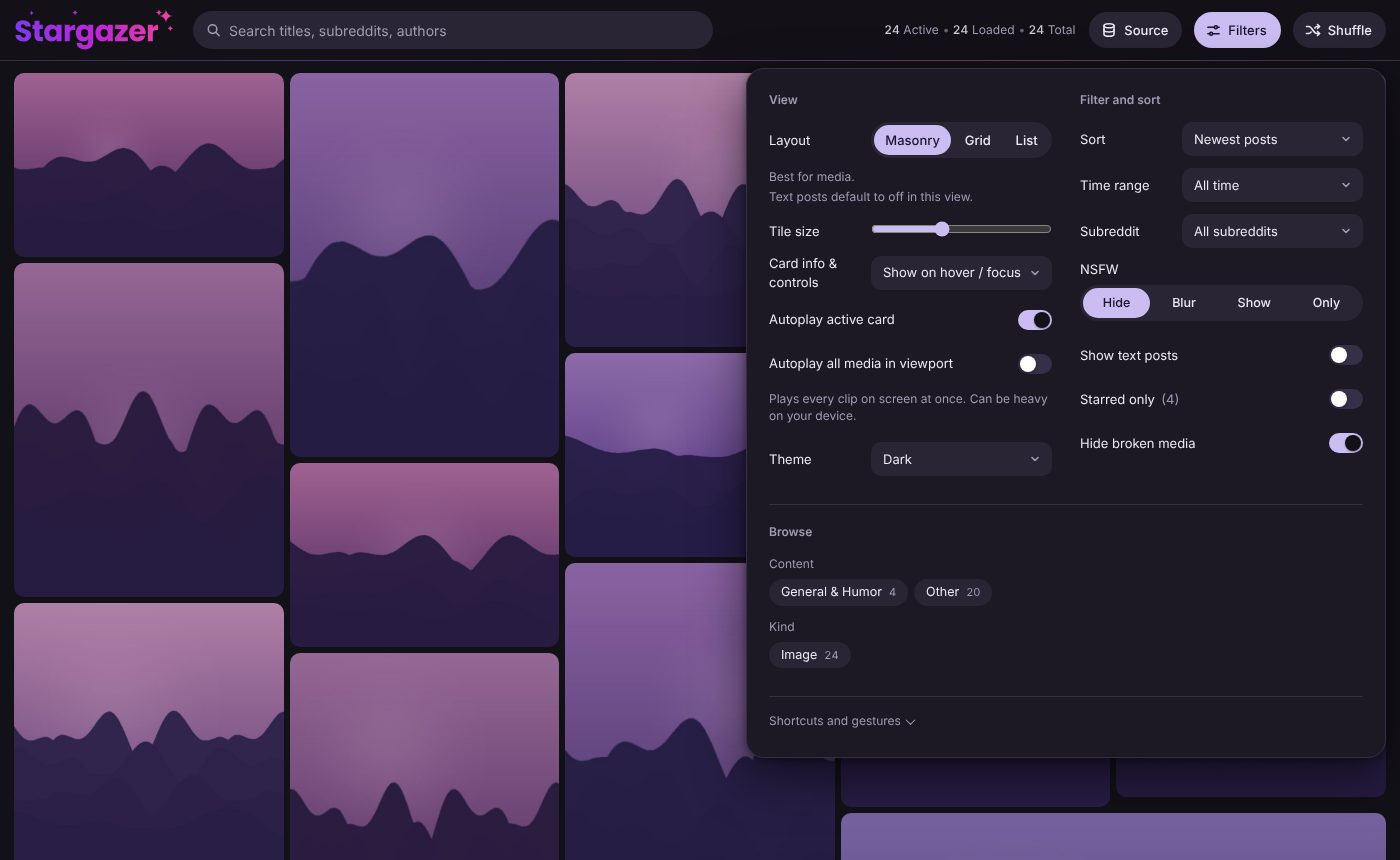
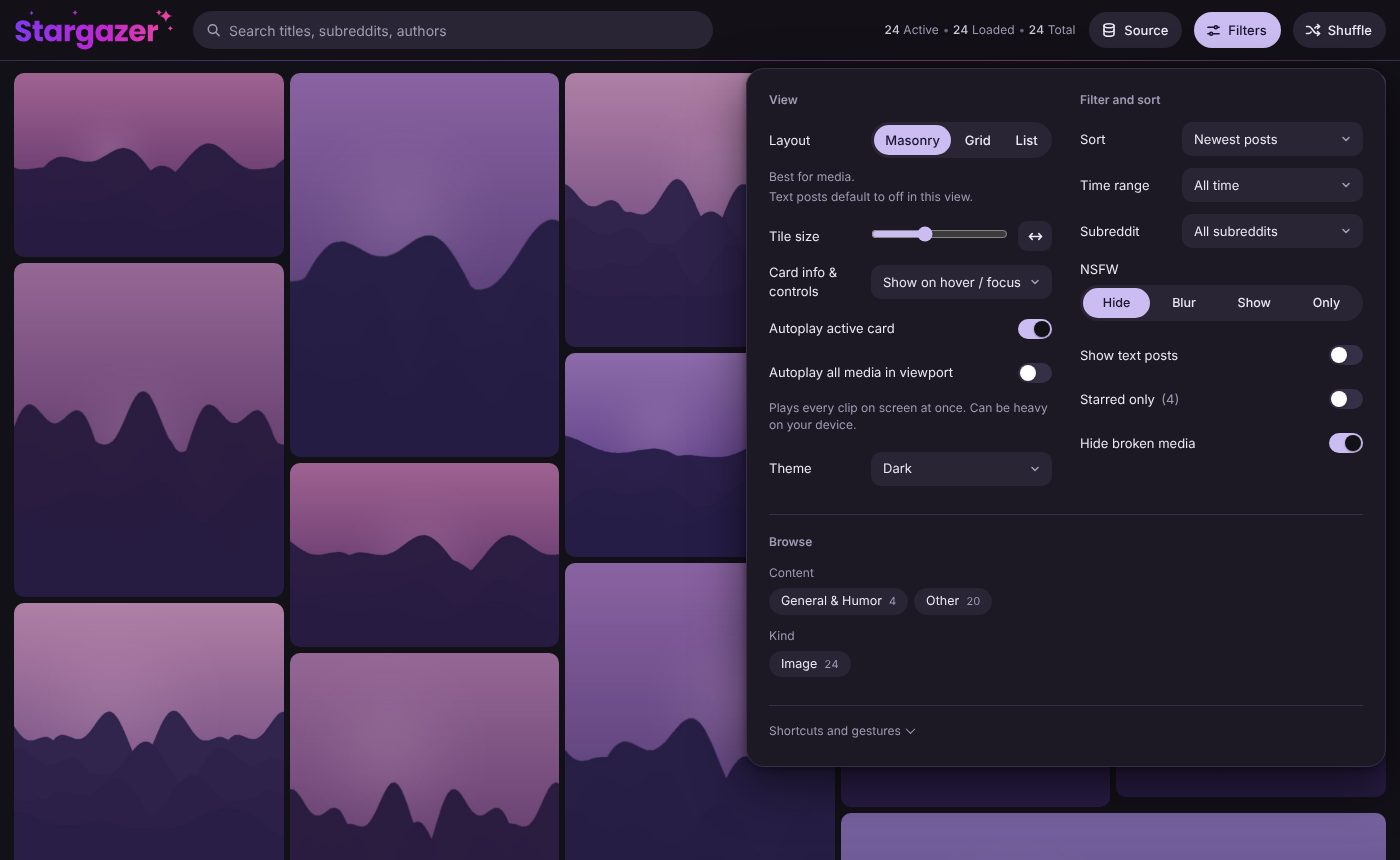
Full width button beside Tile size: one post at a time across the feed, capped to the window height
Claude-Session: https://claude.ai/code/session_01VoEyD2Nx8rj7mNJgvChFfq

diff --git a/site/index.html b/site/index.html
@@ -224,7 +224,16 @@ body.deck-collapsed #panel,body.src-collapsed #srcpanel{display:none}
 .field{appearance:none;-webkit-appearance:none;border:0;background:var(--surface-2);border-radius:10px;height:34px;padding:0 12px;min-width:0;max-width:100%;font-size:13px}
 select.field{background:var(--surface-2) var(--chev) no-repeat right 11px center;padding-right:30px;cursor:pointer;text-overflow:ellipsis}
 input[type=range]{width:100%;accent-color:var(--sel);margin:0}
-.sizewrap{position:relative;display:block;min-width:0}
+.sizewrap{position:relative;display:block;min-width:0;flex:1}
+.sizectl{display:flex;align-items:center;gap:10px;min-width:0}
+.fwbtn{flex:none;width:34px;height:30px;border:0;border-radius:9px;padding:0;display:grid;place-items:center;background:var(--surface-2);color:var(--ink);cursor:pointer;transition:background .15s,color .15s}
+.fwbtn[aria-pressed=true]{background:var(--sel);color:var(--sel-ink)}
+@media (hover:hover) and (pointer:fine){.fwbtn[aria-pressed=false]:hover{background:var(--line)}}
+#size:disabled{opacity:.4}
+/* Full width: one post at a time across the whole feed, each tile no taller than the window, the media shown whole on a dark ground */
+body.fullw:not(.layout-list) .grid{grid-template-columns:minmax(0,1fr)}
+body.fullw:not(.layout-list) .thumb{background:#0b0a10}
+body.fullw:not(.layout-list) .thumb img,body.fullw:not(.layout-list) .thumb .still,body.fullw:not(.layout-list) .thumb .clip{object-fit:contain}
 .sizewrap .notches{display:none}
 .sizewrap.stepped{padding-bottom:16px}
 .sizewrap.stepped .notches{display:block;position:absolute;left:0;right:0;bottom:0;height:16px;pointer-events:none}
@@ -807,7 +816,7 @@ button,summary,[role=button]{-webkit-user-select:none;user-select:none}   /* a l
         <h2>View</h2>
         <div class="ctlrow"><span>Layout</span><div class="srcseg" id="layoutseg" role="group" aria-label="Layout"><button class="pill" type="button" data-l="masonry" aria-pressed="true" title="Best for media">Masonry</button><button class="pill" type="button" data-l="grid" aria-pressed="false" title="Equal square tiles in strict rows">Grid</button><button class="pill" type="button" data-l="list" aria-pressed="false" title="Best for text posts">List</button></div></div>
         <p class="hint layouthint" id="layouthint" role="status"></p>
-        <label class="ctlrow" id="sizerow"><span>Tile size</span><span class="sizewrap"><input id="size" type="range" min="150" max="360" step="10" value="230"><span class="notches" aria-hidden="true"></span></span></label>
+        <div class="ctlrow" id="sizerow"><label for="size">Tile size</label><span class="sizectl"><span class="sizewrap"><input id="size" type="range" min="150" max="360" step="10" value="230"><span class="notches" aria-hidden="true"></span></span><button class="fwbtn" id="fullw" type="button" aria-pressed="false" aria-label="Full width" title="Full width: one post at a time across the page, as tall as the window allows"><svg viewBox="0 0 16 16" width="15" height="15" fill="none" stroke="currentColor" stroke-width="1.7" stroke-linecap="round" stroke-linejoin="round" aria-hidden="true"><path d="M1.5 8h13M4.5 5 1.5 8l3 3M11.5 5l3 3-3 3"/></svg></button></span></div>
         <div class="ctlrow" id="colsrow"><span>Columns</span><div class="srcseg" id="colsseg" role="group" aria-label="List columns"><button class="pill" type="button" data-c="1" aria-pressed="false" title="Easiest to scan">1</button><button class="pill" type="button" data-c="2" aria-pressed="false">2</button><button class="pill" type="button" data-c="3" aria-pressed="false">3</button><button class="pill" type="button" data-c="auto" aria-pressed="true" title="As many as fit">Auto</button></div></div>
         <label class="ctlrow" id="cardrow"><span>Card info &amp; controls</span>
           <select id="cardmode" class="field" aria-label="Card info and controls">
@@ -2276,7 +2285,7 @@ function layoutCard(el,p){
     return;
   }
   if(LAYOUT==='grid'){            // a perfect grid: every tile the same square size
-    el.style.gridRow = 'span '+Math.max(10, Math.round((colW + GAP)/(ROW+GAP)));
+    el.style.gridRow = 'span '+fullwRows(Math.max(10, Math.round((colW + GAP)/(ROW+GAP))));
     el.style.gridColumn = '';
     return;
   }
@@ -2287,7 +2296,7 @@ function layoutCard(el,p){
   let hw = ar ? 1/ar : 0.75;
   hw = wide ? Math.min(Math.max(hw,0.42),1) : Math.min(Math.max(hw,0.66),1.7);
   const w = cs*colW + (cs-1)*GAP;
-  const rows = Math.max(10, Math.round((w*hw + GAP)/(ROW+GAP)));
+  const rows = fullwRows(Math.max(10, Math.round((w*hw + GAP)/(ROW+GAP))));
   el.style.gridRow = 'span '+rows;
   el.style.gridColumn = cs>1 ? 'span '+cs : '';
 }
@@ -3214,7 +3223,24 @@ paintCols();
 /* Tile size. On desktop it is a free slider. On phones only a few column counts fit, so the slider snaps to those (1, 2, 3 across) with a notch and number for each. */
 const phoneMQ = matchMedia('(max-width:720px)');
 let SIZE_STEPS = null;   // card widths for 1, 2, 3 columns on phones; null on desktop
-function setCard(px){ document.documentElement.style.setProperty('--card', px+'px'); relayoutAll(); }
+/* Full width (#fullw, remembered in saved-posts-fullwidth): the feed shows one post at a time across its whole width, the tile size slider is set aside
+   (its own value is kept for when this is turned off), and every tile is capped to the height of the window so a tall picture never runs off screen. */
+var FULLW = false; try{ FULLW = localStorage.getItem('saved-posts-fullwidth')==='1'; }catch(e){}
+var cardPx = 230;
+function setCard(px){ cardPx = +px || cardPx; document.documentElement.style.setProperty('--card', cardPx+'px'); relayoutAll(); }
+function fullwRows(rows){
+  if(!FULLW) return rows;
+  const deck = document.querySelector('.deck'), nav = phoneMQ.matches ? (($('navbtns')||{}).offsetHeight || 0) : 0;
+  const h = (window.visualViewport ? visualViewport.height : innerHeight) - (deck ? deck.offsetHeight : 0) - nav - 20;
+  return Math.max(10, Math.min(rows, Math.round((h + GAP)/(ROW+GAP))));
+}
+function setFullw(on, save){
+  FULLW = !!on; document.body.classList.toggle('fullw', FULLW);
+  const b = $('fullw'); if(b) b.setAttribute('aria-pressed', FULLW ? 'true' : 'false');
+  $('size').disabled = FULLW;
+  if(save) try{ localStorage.setItem('saved-posts-fullwidth', FULLW ? '1' : '0'); }catch(e){}
+  setCard(cardPx);
+}
 function buildSizeControl(){
   const sl = $('size'), wrap = sl.closest('.sizewrap'), nt = wrap.querySelector('.notches');
   if(!phoneMQ.matches){
@@ -3245,6 +3271,9 @@ try{
   else if(dt>=150 && dt<=360){ sl.value = dt; setCard(dt); }
 }catch(e){}
 buildSizeControl();
+$('fullw').addEventListener('click',e=>{ e.preventDefault(); setFullw(!FULLW, true); });
+setFullw(FULLW, false);
+addEventListener('resize', ()=>{ if(FULLW){ clearTimeout(setFullw._t); setFullw._t = setTimeout(relayoutAll, 150); } });
 (phoneMQ.addEventListener ? phoneMQ.addEventListener('change', buildSizeControl) : phoneMQ.addListener(buildSizeControl));
 addEventListener('resize', ()=>{ if(SIZE_STEPS){ clearTimeout(buildSizeControl._t); buildSizeControl._t = setTimeout(buildSizeControl, 200); } });
 

diff --git a/tests/fullw_test.py b/tests/fullw_test.py
@@ -1,0 +1,31 @@
+"""Full width button beside Tile size: one post at a time across the feed, no tile taller than the window, slider set aside and its value kept,
+remembered across visits, works on phones too. Run: python tests/fullw_test.py"""
+import os
+from playwright.sync_api import sync_playwright
+PAGE = 'file://' + os.path.abspath(os.path.join(os.path.dirname(__file__), '..', 'site', 'index.html'))
+bad = []
+def check(n, ok):
+    print(('PASS ' if ok else 'FAIL ') + n)
+    if not ok: bad.append(n)
+with sync_playwright() as p:
+    b = p.chromium.launch()
+    for name, vp, touch in [('desktop', {'width': 1280, 'height': 800}, False), ('phone', {'width': 390, 'height': 844}, True)]:
+        ctx = b.new_context(viewport=vp, has_touch=touch, is_mobile=touch); pg = ctx.new_page(); errs = []
+        pg.on('pageerror', lambda e: errs.append(str(e)))
+        pg.route('**/*', lambda r: r.continue_() if r.request.url.startswith(('file:', 'data:')) else r.abort())
+        pg.goto(PAGE); pg.wait_for_timeout(500); pg.evaluate("openSample()"); pg.wait_for_timeout(1200)
+        cols0 = pg.evaluate("cols"); size0 = pg.evaluate("$('size').value")
+        pg.evaluate("$('fullw').click()"); pg.wait_for_timeout(500)
+        info = pg.evaluate("""(()=>{ const g=$('grid').getBoundingClientRect().width, cs=[...document.querySelectorAll('#grid .card')].map(c=>c.getBoundingClientRect());
+          const deck=document.querySelector('.deck').offsetHeight; return {cols, wide: cs.every(r=>Math.abs(r.width-g)<2), tallest: Math.max(...cs.map(r=>r.height)), room: innerHeight-deck, dis: $('size').disabled, pressed: $('fullw').getAttribute('aria-pressed')}; })()""")
+        check('%s: one post across the whole feed (%s)' % (name, info), info['cols'] == 1 and info['wide'])
+        check('%s: no tile is taller than the window below the top bar' % name, info['tallest'] <= info['room'])
+        check('%s: the slider is set aside, the button shows it is on' % name, info['dis'] and info['pressed'] == 'true')
+        pg.reload(); pg.wait_for_timeout(1500)
+        check('%s: remembered on the next visit' % name, pg.evaluate("FULLW && cols===1 && document.body.classList.contains('fullw')"))
+        pg.evaluate("$('fullw').click()"); pg.wait_for_timeout(500)
+        check('%s: off again gives the earlier tile size back (%s cols, slider %s)' % (name, pg.evaluate("cols"), pg.evaluate("$('size').value")), pg.evaluate("cols") == cols0 and pg.evaluate("$('size').value") == size0 and not pg.evaluate("$('size').disabled"))
+        check('%s: no page errors' % name, not errs)
+        ctx.close()
+    b.close()
+print('ALL PASS' if not bad else 'FAILED: ' + ', '.join(bad))

diff --git a/CLAUDE.md b/CLAUDE.md
@@ -11,7 +11,7 @@ Hosted on GitHub Pages. Accounts and storage come from Supabase (free plan). The
 - `tools/screenshots/`  regenerates `docs/screenshots/*.jpg` for the README from invented posts and generated artwork (`make_images.py`, then `shoot.py`). Re-run after visible UI changes. Never use real posts or accounts.
 - `tools/hot_relay.py`  optional local relay that lets the page read Reddit's real hot feed (browsers cannot call Reddit directly).
 - `.github/workflows/`  `pages.yml` deploys `site/`; `keepalive.yml` pings Supabase so the free project is not paused.
-- `tests/`  Playwright checks (`merge_test.py`, `nsfw_test.py`, `panels_test.py`, `lists_test.py`, `reset_test.py`, `viewer_yt_test.py`, `wayback_test.py`, `gone_pic_test.py`, `audio_test.py`, `unload_test.py`, `cloud_reload_test.py`, `first_load_test.py`, `stats_test.py`, `intro_test.py`, `nav_test.py`, `view_test.py`, `sound_follow_test.py`, `layout_test.py`, `merge_prompt_test.py`, `localmeta_test.py`, `imgpause_test.py`, `rg_embed_test.py`, `polish_test.py`, `regrab_test.py`, `review_test.py`, `header_test.py`, `tilesize_test.py`, `seenimg_test.py`, `sort_test.py`, `links_test.py`, `reader_test.py`, `status_clear_test.py`, `signout_others_test.py`, `subsel_test.py`, `nsfwcount_test.py`, `rg_helper_err_test.py`, `reveal_touch_test.py`, `texttitle_test.py`, `listtext_test.py`, `uxpass_test.py`, `rgviewer_test.py`, `autoplayall_test.py`, `ctlfit_test.py`, `touchpin_test.py`, `layer_test.py`, `prefs_test.py`, `uxfix_test.py`, `trayrow_test.py`, `gifstill_test.py`, `focusplay_test.py`, `sources_test.py`, `subfeed_test.py`, `archive_err_test.py`, `viewtap_test.py`, `viewland_test.py`, `rggone_test.py`, `recplay_test.py`).
+- `tests/`  Playwright checks (`merge_test.py`, `nsfw_test.py`, `panels_test.py`, `lists_test.py`, `reset_test.py`, `viewer_yt_test.py`, `wayback_test.py`, `gone_pic_test.py`, `audio_test.py`, `unload_test.py`, `cloud_reload_test.py`, `first_load_test.py`, `stats_test.py`, `intro_test.py`, `nav_test.py`, `view_test.py`, `sound_follow_test.py`, `layout_test.py`, `merge_prompt_test.py`, `localmeta_test.py`, `imgpause_test.py`, `rg_embed_test.py`, `polish_test.py`, `regrab_test.py`, `review_test.py`, `header_test.py`, `tilesize_test.py`, `seenimg_test.py`, `sort_test.py`, `links_test.py`, `reader_test.py`, `status_clear_test.py`, `signout_others_test.py`, `subsel_test.py`, `nsfwcount_test.py`, `rg_helper_err_test.py`, `reveal_touch_test.py`, `texttitle_test.py`, `listtext_test.py`, `uxpass_test.py`, `rgviewer_test.py`, `autoplayall_test.py`, `ctlfit_test.py`, `touchpin_test.py`, `layer_test.py`, `prefs_test.py`, `uxfix_test.py`, `trayrow_test.py`, `gifstill_test.py`, `focusplay_test.py`, `sources_test.py`, `subfeed_test.py`, `archive_err_test.py`, `viewtap_test.py`, `viewland_test.py`, `rggone_test.py`, `recplay_test.py`, `fullw_test.py`).
 
 ## Rules that must not be broken
 1. **No personal data in the repo.** No saved-post lists, no CSV files, no subreddit lists from a real account, no keys other than the Supabase anon key. `.gitignore` blocks `*.csv` and `local/`.
@@ -49,7 +49,7 @@ Hosted on GitHub Pages. Accounts and storage come from Supabase (free plan). The
 - Test by loading the page in Playwright with network routes mocked (see `tests/`). There is no live access to Reddit or the archives from the dev sandbox.
 
 - Deleting a single post (or several, via **Bulk Actions** mode) has no confirm for single deletes: it shows a toast with **Undo** (`toast(msg, {label, fn})`, `restoreRows`). Bulk delete asks once, then also offers Undo. Selection mode (`SEL`, `selMode`, `selAct`) acts on `list`; its action bar `#selbar` lives inside `.deck`: on desktop a tinted strip under the top bar, on phones a fixed bottom sheet; NSFW changes go through `markNsfw` (no commit) so many posts commit once.
-- What is remembered: tab-only (sessionStorage, `saved-posts-view`) are filters, search, subreddit, range, scroll; browser-wide (localStorage) are Theme, Layout (per list), List columns, Card info & controls, Auto-play options, volume, **tile size** (`saved-posts-tile` desktop px, `saved-posts-tile-phone` column step) and per-list **sort, Starred only, Show text posts once toggled** (`saved-posts-listprefs`, `saveListPrefs` / `applyListPrefs`, applied in `startCsvMode`). NSFW and search text never persist to a later visit.
+- What is remembered: tab-only (sessionStorage, `saved-posts-view`) are filters, search, subreddit, range, scroll; browser-wide (localStorage) are Theme, Layout (per list), List columns, Card info & controls, Auto-play options, volume, **tile size** (`saved-posts-tile` desktop px, `saved-posts-tile-phone` column step), Full width (`saved-posts-fullwidth`) and per-list **sort, Starred only, Show text posts once toggled** (`saved-posts-listprefs`, `saveListPrefs` / `applyListPrefs`, applied in `startCsvMode`). NSFW and search text never persist to a later visit.
 - A CSV or account list opens sorted **Newest posts** (set in `startCsvMode`; Saved order stays in the Sort menu); Subreddit mode opens on Hot. The Filters badge counts only settings changed from the defaults. Theme lives in the Filters panel's View section (it is about how things look, not which list). Layout is remembered per list (`saved-posts-layouts`, `applyListLayout`) with the global value as the default.
 - The Subreddit dropdown (`#subsel`) is rebuilt by `buildSubs()` from `refresh()` whenever the list or chosen subreddit changes; a subreddit name on a card filters the list (tooltip, hover underline, toast with Show all; clicking the same name again clears it), it never opens Reddit. The filter is shown in the search box as an `r/name` word (`boxText`, `syncBox`, `setSub`); typing or deleting that word changes the filter, anything else in the box is the text search. `state.sub` can hold several subreddits joined with `+` (typed as `r/a+b` or `a+b`, every name must be in the list; `subIn` does the matching).
 - The viewer has previous/next **post** navigation (`viewerPost`, Up/Down or Left/Right arrows, swipes, bottom buttons) separate from the gallery's image arrows. On touch, **swipe up = next post, swipe down = previous** (`swipeStep`; mostly vertical, over 70px), on pictures and on clips; sideways moves through a gallery's pictures, or between posts elsewhere. On a clip the touches are only watched (passive), so a tap still reaches the video for the player bar and a swipe cancels it. Embedded players (YouTube, RedGifs' iframe) keep their own touches, which is why the buttons stay. Swipe down no longer closes full screen (the ✕, the exit button and Back do) (`viewtap_test.py`). **Slide transition** (`slideTo`, `dragFollow`, `dragEnd`, `SLIDE`): the post follows the finger vertically (damped where there is no post that way); past 70px, or a quick flick (over 24px at more than 0.35px/ms), the post moves into a ghost copy (`.vghost`, a clip in it paused on its frame) that slides away while the stage loads the next post and slides in from the opposite edge together (320ms, `cubic-bezier(.32,.72,0,1)`); otherwise it springs back. The Previous / Next buttons slide too; keyboard steps stay instant; reduced motion skips the slide. Only the stage moves, the bar and buttons stay put.
@@ -73,6 +73,7 @@ Hosted on GitHub Pages. Accounts and storage come from Supabase (free plan). The
 - On touch, tapping the layer, the handle or the chevron pins that card as the focused one (`pinned`, in `pickFocus`) until it is wholly scrolled out of view or the page moves more than 120px, and nothing overrules it in the meantime (`touchpin_test.py`).
 - **No backdrop blur on tiles unless the layer is showing.** A blur over a playing video is redrawn on every frame; one hidden layer plus badges on dozens of tiles made the page flash while scrolling through playing clips. Closed layers and the badges/buttons on a tile have `backdrop-filter:none` (a plain tint instead); only a shown layer blurs (`layer_test.py` checks it). Do not put backdrop-filter back on always-present tile elements.
 - **Subreddit mode on the hosted page:** `liveHotPage` tries the relay on the page's own host (a 404 on GitHub Pages), then localhost, then reddit.com; Reddit refuses browser reads (a `TypeError`), so the archives are used. The reported reason is Reddit's own failure (`redditErr`), never the missing relay's 404. When the view is empty, `subEmptyHtml` says whether the archives returned nothing (private, banned or quarantined, misspelled, too small, or not archived yet) or which filters hid what loaded (NSFW Hide, text posts off, Hide broken media), with a button for each (`data-empty`). `subfeed_test.py`.
+- **Full width** (`#fullw` button beside the Tile size slider, class `.fwbtn` (never `.fullw`: that is the body class and a button rule would restyle the body); `FULLW`, `setFullw`, `saved-posts-fullwidth`): Masonry / Grid show one post at a time across the whole feed (`body.fullw .grid{grid-template-columns:minmax(0,1fr)}`), each tile capped to the window height below the top bar (`fullwRows`), the media shown whole (`object-fit:contain`) on a dark ground. Not a full-screen mode: the page, top bar and tray work as usual. The slider is disabled and keeps its own value for when this is turned off; List ignores it (`fullw_test.py`).
 - Tile size is a free slider on desktop; on phones (<=720px) it snaps to the column counts that fit (1, 2, 3 across) with a notch and number each (`buildSizeControl`, `SIZE_STEPS`).
 
 ## Deploying

diff --git a/README.md b/README.md
@@ -35,7 +35,7 @@ Stargazer turns that export into a visual gallery you can actually comb through.
 - **Card info & controls**: keep tiles media-only (Collapsed, where a tap on a tile or its small handle opens that card's title, Open post and Comments buttons, NSFW, star, bookmark, full-screen and player controls), let them rise on hover or focus, or show them always. Double tap a clip to play or pause it.
 - A built-in viewer for images, galleries, videos, YouTube and RedGifs, with previous/next post navigation (arrow keys, swipe or buttons).
 - Search titles, subreddits and authors (type `r/subreddit1+subreddit2` etc, to see several subreddits combined); sort by hot, newest, oldest, most comments, highest score or subreddit; limit by time range.
-- Light and dark themes, adjustable tile size, and a layout that adapts to phones.
+- Light and dark themes, adjustable tile size (or Full width, one post at a time across the page), and a layout that adapts to phones.
 
 **Filter**
 - By subreddit, media type (image, GIF, video, gallery, link, text post, removed, recovered) and favourites.
